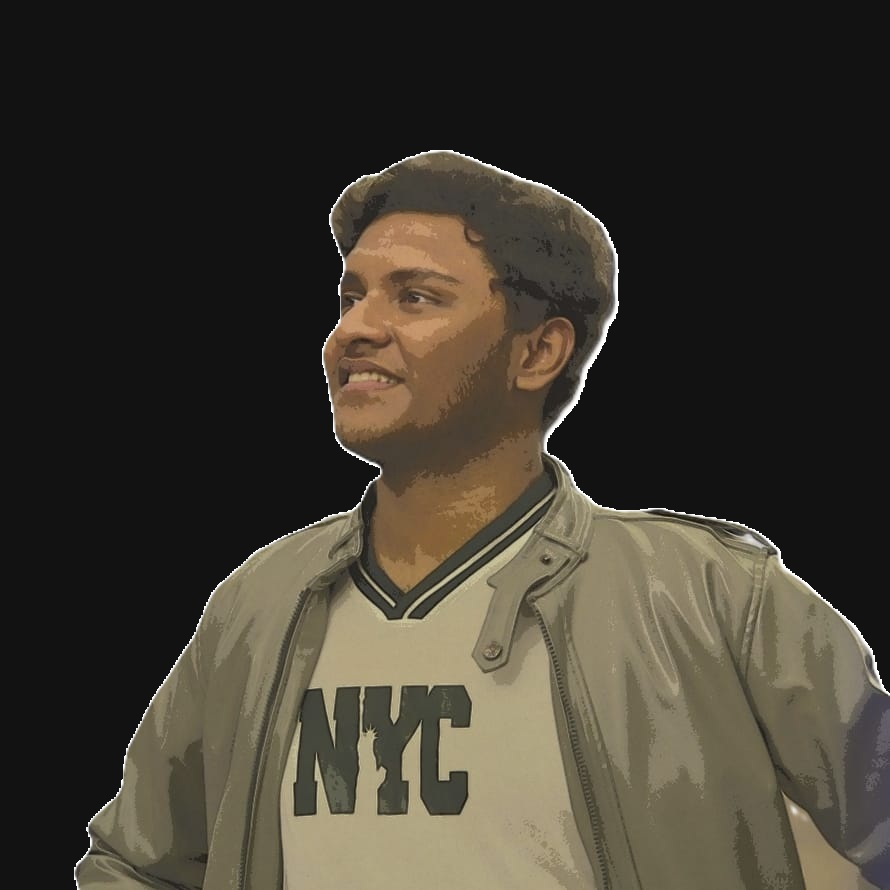
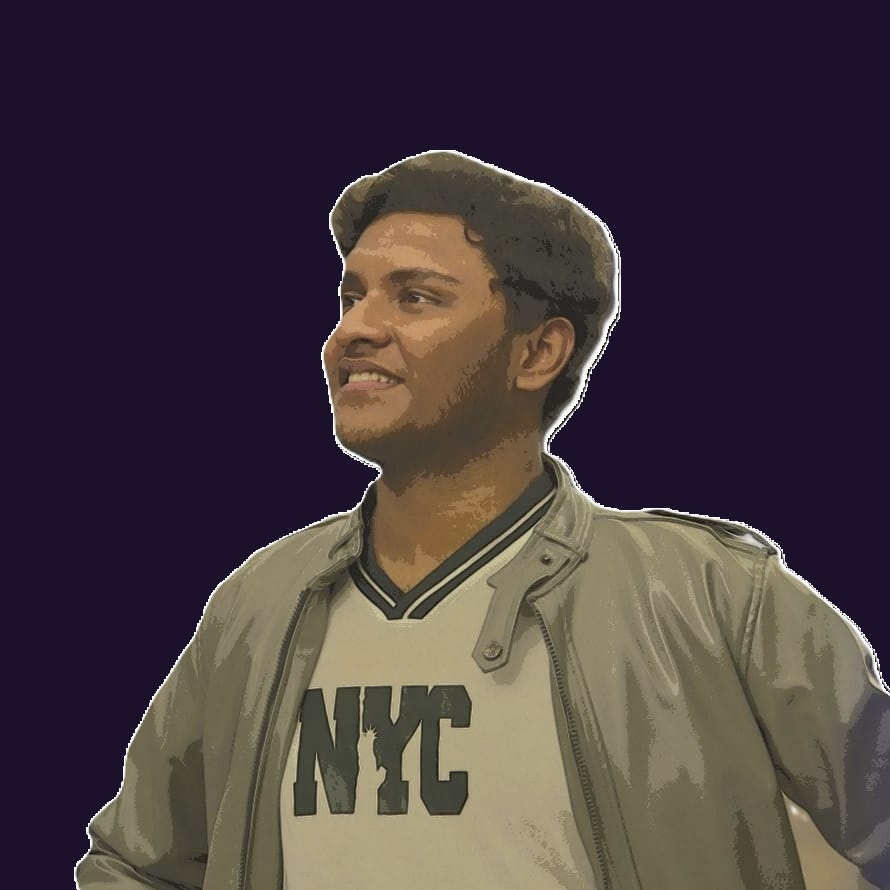
Refactor code structure for improved readability and maintainability

diff --git a/src/app/shared/components/project-card/project-card.component.scss b/src/app/shared/components/project-card/project-card.component.scss
@@ -1,30 +1,125 @@
 .card {
-    background-color: var(--background-primary);
-    transition: transform 0.3s cubic-bezier(0.23, 1, 0.32, 1), box-shadow 0.3s;
+    background: rgba(44, 34, 80, 0.92); // deep purple glass
+    border-radius: 22px;
+    box-shadow: 0 8px 32px 0 rgba(31, 38, 135, 0.22);
+    border: 1.5px solid #3a2d71;
+    overflow: hidden;
+    transition: transform 0.3s cubic-bezier(.4, 2, .3, 1), box-shadow 0.3s;
+    position: relative;
+    min-width: 320px;
+    max-width: 370px;
+    margin: 1.5rem auto;
+    display: flex;
+    flex-direction: column;
 }
 
 .card:hover {
-    transform: translateY(-10px) scale(1.03);
-    box-shadow: 0 8px 40px 0 rgba(229, 229, 229, 0.15), 0 2px 8px 0 rgba(0,0,0,0.12);
+    transform: translateY(-12px) scale(1.04);
+    box-shadow: 0 20px 60px 0 rgba(123, 47, 242, 0.33);
 }
 
-.card-footer {
-    background-color: transparent;
-    border: none;
+.card-image-wrapper {
+    width: 100%;
+    height: 180px;
+    overflow: hidden;
+    border-radius: 22px 22px 0 0;
+    position: relative;
+    background: linear-gradient(90deg, #3a2d71 0%, #2d1e6b 100%);
 }
 
-.card-link {
-    color: var(--background-tertiary);
-    text-decoration: none;
-    transition: color 0.2s;
-
-    &:hover {
-        color: var(--background-alternative3);
-        text-decoration: underline;
-    }
+.card-img-top {
+    width: 100%;
+    height: 100%;
+    object-fit: cover;
+    transition: transform 0.5s cubic-bezier(.4, 2, .3, 1), filter 0.3s;
+    filter: brightness(0.7) saturate(1.2);
 }
 
-.type {
-    color: #198754;
+.card:hover .card-img-top {
+    transform: scale(1.06) rotate(-1deg);
+    filter: brightness(0.85) saturate(1.3);
+}
+
+.card-content {
+    padding: 1.4rem 1.2rem 1.1rem 1.2rem;
+    display: flex;
+    flex-direction: column;
+    gap: 0.7rem;
+    background: rgba(34, 30, 60, 0.92);
+    backdrop-filter: blur(2px);
+}
+
+.card-title {
+    font-size: 1.3rem;
+    font-weight: 700;
+    color: #e0c3fc;
+    margin-bottom: 0.2rem;
+    letter-spacing: 0.01em;
+}
+
+.card-description {
     font-size: 1rem;
+    color: #8ec5fc;
+    margin-bottom: 0.5rem;
+    min-height: 44px;
+    line-height: 1.5;
+}
+
+.skills-list {
+    display: flex;
+    flex-wrap: wrap;
+    gap: 0.35rem;
+    margin-bottom: 0.5rem;
+}
+
+.skill-tag {
+    background: linear-gradient(90deg, #8ec5fc 0%, #e0c3fc 100%);
+    color: #2d1e6b;
+    font-size: 0.83rem;
+    padding: 0.18rem 0.65rem;
+    border-radius: 10px;
+    font-weight: 500;
+    box-shadow: 0 1px 4px rgba(123, 47, 242, 0.13);
+    border: 1px solid #8ec5fc;
+}
+
+.project-btn-group {
+    display: flex;
+    gap: 0.7rem;
+    margin-top: 0.7rem;
+    justify-content: flex-start;
+}
+
+.project-btn {
+    display: flex;
+    align-items: center;
+    gap: 0.4rem;
+    background: linear-gradient(90deg, #7b2ff2 0%, #f357a8 100%);
+    color: #fff;
+    padding: 0.42rem 1.1rem;
+    border-radius: 20px;
+    text-decoration: none;
+    font-weight: 500;
+    font-size: 0.97rem;
+    box-shadow: 0 2px 8px rgba(123, 47, 242, 0.18);
+    border: none;
+    outline: none;
+    transition: background 0.3s, transform 0.2s, box-shadow 0.2s;
+}
+
+.project-btn:hover {
+    background: linear-gradient(90deg, #f357a8 0%, #7b2ff2 100%);
+    transform: translateY(-2px) scale(1.04);
+    box-shadow: 0 4px 16px rgba(123, 47, 242, 0.23);
+    color: #fff;
+}
+
+@media (max-width: 500px) {
+  .card {
+    min-width: 90vw;
+    max-width: 98vw;
+  }
+  .card-content {
+    padding: 1.1rem 0.7rem 1rem 0.7rem;
+  }
 }

diff --git a/src/app/shared/components/project-card/project-card.component.html b/src/app/shared/components/project-card/project-card.component.html
@@ -1,39 +1,40 @@
 <div class="row">
-  <div
-    class="col-md-4 col-12 mt-3"
-    *ngFor="let project of projects"
-  >
-    <div class="card h-100">
-      <div class="card-body">
-        <h5 class="card-title mb-2">
-          <a
-            [href]="project.url"
-            class="card-link"
-            target="_blank"
-          >
-            {{ project.title }}
-          </a>
-        </h5>
-        <p class="card-text mb-3">
-          {{ project.description }}
-        </p>
-        <div class="mb-2">
-          <app-tag-item
-            *ngFor="let tag of project.tags"
-            [tag]="tag"
-            [spacing]="'p-1 mb-1 me-1'"
-          ></app-tag-item>
-        </div>
+  <div class="col-md-4 col-12 mt-3" *ngFor="let project of projects">
+    <div class="card">
+      <div class="card-image-wrapper">
+        <img
+          class="card-img-top"
+          [src]="project.screenshot"
+          alt="{{ project.title }}"
+        />
       </div>
-      <div class="card-footer border-0 bg-transparent">
-        <a
-          *ngIf="project.demo"
-          [href]="project.demo"
-          target="_blank"
-          class="btn btn-primary"
-        >
-          Live Demo
-        </a>
+      <div class="card-content">
+        <div class="card-title">{{ project.title }}</div>
+        <div class="card-description">{{ project.description }}</div>
+        <div class="skills-list">
+          <span class="skill-tag" *ngFor="let tag of project.tags">{{
+            tag
+          }}</span>
+        </div>
+        <div class="project-btn-group">
+          <a
+            class="project-btn"
+            *ngIf="project.demo"
+            [href]="project.demo"
+            target="_blank"
+            title="View Live Demo"
+          >
+            <i class="fa fa-play"></i> Live Demo
+          </a>
+          <a
+            class="project-btn"
+            [href]="project.url"
+            target="_blank"
+            title="View Source Code"
+          >
+            <i class="fa fa-github"></i> View Source
+          </a>
+        </div>
       </div>
     </div>
   </div>

diff --git a/src/app/core/home/home.component.html b/src/app/core/home/home.component.html
@@ -1,7 +1,15 @@
 <div class="row p-0 min-vh-90 align-items-center mt-5 mt-md-0">
   <div class="col-md-6 col-12">
-    <p class="bubble mb-5">hi there!</p>
-    <h1>Sagnik Mukherjee</h1>
+    <ngx-typed-js
+      [strings]="['hi there!']"
+      [typeSpeed]="70"
+      [backSpeed]="45"
+      [backDelay]="4000"
+      [loop]="true"
+    >
+      <p class="bubble mb-5 fade-in typed-greeting"> <span class="typing"></span> </p>
+    </ngx-typed-js>
+    <h1 class="fade-in" style="animation-delay:0.2s">Sagnik Mukherjee</h1>
     <ngx-typed-js
       [strings]="['Software Engineer', 'Full Stack Developer', 'Web Developer']"
       [typeSpeed]="70"
@@ -24,13 +32,13 @@
       ideas into reality through code.
     </p>
     <div class="cv-btn-container mt-4">
-  <a href="assets/Sagnik_Mukherjee_CV.pdf" download class="cv-btn">
-    <span>Download CV</span>
-    <i class="bi bi-download ms-2"></i>
-  </a>
-</div>
+      <a href="assets/Sagnik_Mukherjee_CV.pdf" download class="cv-btn">
+        <span>Download CV</span>
+        <i class="bi bi-download ms-2"></i>
+      </a>
+    </div>
   </div>
   <div class="col-md-6 col-12">
-    <img src="assets/headerimg.png" class="img-fluid" />
+    <img src="assets/headerimg.png" class="img-fluid fade-in" style="animation-delay:0.6s" />
   </div>
 </div>

diff --git a/src/styles.scss b/src/styles.scss
@@ -3,13 +3,13 @@
 @import url(https://fonts.googleapis.com/css?family=Open+Sans:100,200,300,400,600,700,800);
 
 body{
-    --background-primary: #121212;
-    --background-secondary: #2A2A2A;
-    --background-tertiary: #00ADB5;
-    --background-alternative: #BF3E21;
-    --background-alternative2: #BF533B;
-    --background-alternative3: #733224;
-    --font-color: #fff;
+     --background-primary: #1B112A;       /* Deep Purple Night */
+  --background-secondary: #2E1A47;     /* Card/section backgrounds */
+  --background-tertiary: #A66DD4;      /* Vibrant Lilac – Active/highlight */
+  --background-alternative: #F67280;   /* Coral Pink – Button, CTA */
+  --background-alternative2: #6C5B7B;  /* Hover or soft accents */
+  --background-alternative3: #3D2C4C;  /* Footer or divider */
+  --font-color: #F0EFF4;               /* Light lavender text */
 
     color: var(--font-color);
 }

diff --git a/src/app/core/recent-work/recent-work.component.ts b/src/app/core/recent-work/recent-work.component.ts
@@ -5,6 +5,7 @@ interface Project {
   description: string;
   url: string;
   demo?: string;
+  screenshot: string;
   tags: string[];
 }
 
@@ -19,10 +20,10 @@ export class RecentWorkComponent {
       title: 'Developer Portfolio',
       description:
         'A modern, responsive portfolio website built with Angular, showcasing my skills, experience, and recent projects. Features a clean UI, mobile-first design, and easy navigation.',
-      url: 'https://github.com/C0D3RANG3R',
-      demo: 'https://www.google.com',
+      url: 'https://github.com/C0D3RANG3R/Sagnik-Portfolio',
+      demo: 'https://sagnik-portfolio-five.vercel.app/',
+      screenshot: 'assets/portfolio-screenshot.png',
       tags: ['Angular', 'TypeScript', 'SCSS', 'Responsive Design'],
     },
-    // Add more projects here if needed
   ];
 }

diff --git a/src/app/core/footer/footer.component.scss b/src/app/core/footer/footer.component.scss
@@ -7,6 +7,8 @@
 
 .icons > a:hover {
     color: var(--background-primary);
+    transform: scale(1.15);
+    text-shadow: 0 0 8px #0d6efd33;
 }
 
 footer {
@@ -19,7 +21,7 @@ p {
 }
 
 .footer-custom {
-    background: #181a1b;
+    background: linear-gradient(to bottom, var(--background-primary) 0%, var(--background-secondary) 100%);;
     color: #f5f5f5;
     font-family: 'Inter', Arial, sans-serif;
     border-top: 1px solid #23272b;
@@ -43,7 +45,7 @@ p {
     }
 
     .btn-primary {
-        background: #0d6efd;
+        background: #A66DD4;
         border: none;
         font-weight: 600;
         letter-spacing: 0.04em;

diff --git a/src/app/shared/components/project-card/project-card.component.spec.ts b/src/app/shared/components/project-card/project-card.component.spec.ts
@@ -20,4 +20,19 @@ describe('ProjectCardComponent', () => {
   it('should create', () => {
     expect(component).toBeTruthy();
   });
+
+  it('should have projects input property', () => {
+    component.projects = [
+      {
+        title: 'Test Project',
+        description: 'This is a test project.',
+        url: 'http://example.com',
+        demo: 'http://demo.example.com',
+        screenshot: 'http://example.com/screenshot.png',
+        tags: ['Angular', 'TypeScript'],
+      },
+    ];
+    expect(component.projects.length).toBe(1);
+    expect(component.projects[0].title).toBe('Test Project');
+  });
 });

diff --git a/src/app/core/home/home.component.scss b/src/app/core/home/home.component.scss
@@ -60,3 +60,16 @@ a {
   color: var(--color-primary);
   transform: translateY(-2px) scale(1.03);
 }
+
+.fade-in {
+  opacity: 0;
+  transform: translateY(30px);
+  animation: fadeInUp 1s ease-out forwards;
+}
+
+@keyframes fadeInUp {
+  to {
+    opacity: 1;
+    transform: none;
+  }
+}

diff --git a/src/app/shared/components/section-header/section-header.component.html b/src/app/shared/components/section-header/section-header.component.html
@@ -1,4 +1,5 @@
 <div class="text-center">
+  <div style="width: 60px; height: 6px; background: var(--background-alternative); margin: 0 auto 12px auto; border-radius: 3px;"></div>
   <h1 class="text-uppercase">
     {{ title }}
   </h1>

diff --git a/src/app/core/recent-work/recent-work.component.html b/src/app/core/recent-work/recent-work.component.html
@@ -6,7 +6,7 @@
     "
   ></app-section-header>
 
-  <div class="row mt-5">
+  <div class="row row-cols-1 row-cols-md-2 row-cols-lg-3 g-4 mt-5">
     <app-project-card [projects]="projects"></app-project-card>
   </div>
 </div>

diff --git a/src/app/shared/components/project-card/project-card.component.ts b/src/app/shared/components/project-card/project-card.component.ts
@@ -5,6 +5,7 @@ interface Project {
   description: string;
   url: string;
   demo?: string;
+  screenshot: string;
   tags: string[];
 }
 
